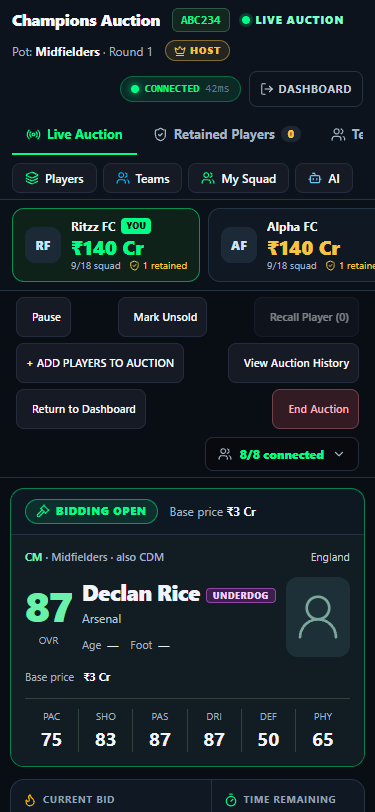
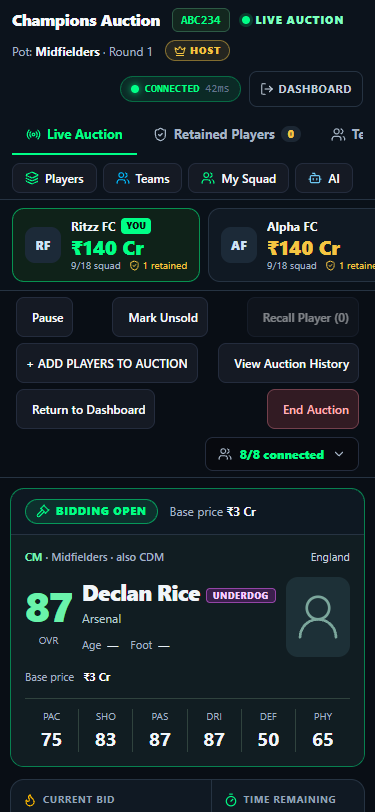
fix: keep player identity visible at short heights, denser pool column, dedupe CSS
Ran: npm run typecheck (pass), npx next build (pass), tests/auction-layout-ui (pass, now asserts photo/position/badge, >=4 pool rows, no fixed elements, all host buttons), auction-redesign-ui, connection-ui, restore-ui, ongoing-auctions-ui, skip-vote-ui, recall-ui, retained-panel-ui (all pass). Floating icon/pill in the report are Next dev indicators, not app elements.

diff --git a/frontend/src/app/auction/[roomCode]/auction.css b/frontend/src/app/auction/[roomCode]/auction.css
@@ -126,9 +126,6 @@
  .auction-subheader > div:last-child { margin-left:auto; }
  .auction-hostbar { padding:0 12px; }
  .auction-host-controls > div:first-child { display:none; }
- .auction-host-controls { gap:6px; }
- .auction-host-controls button { font-size:11px; padding:4px 8px; }
- .auction-host-controls button svg,.host-connections-label { display:none; }
  .auction-host-controls > div:last-child { width:100%; justify-content:space-between; gap:6px; }
  .auction-host-controls button { min-height:40px; padding:6px 9px; }
  .auction-grid { gap:10px; padding:10px; }
@@ -352,7 +349,7 @@
  .auction-bid-rules { display:none; }
  .auction-activity ol { max-height:120px; }
 }
-/* Short desktops (for example 1024x500): single-line chrome, no secondary text, one-row pot tabs with a hidden scrollbar. */
+/* Short desktops (for example 1024x500): compact chrome and cards. The player's photo, name, rating, position and badges stay visible. */
 @media (min-width:1024px) and (max-height:620px) {
  .auction-pot,.auction-phase + .auction-pot { display:none; }
  .auction-header { padding:4px 16px 0; }
@@ -362,55 +359,55 @@
  .auction-header .auction-mobile-tools { padding-bottom:3px; }
  .auction-header .auction-mobile-tools button { min-height:28px; padding:2px 8px; font-size:11px; }
  .auction-purse-strip ul { padding:4px 16px; gap:6px; }
- .auction-purse-badge { display:none; }
- .auction-purse-card { padding:2px 10px; border-radius:8px; }
+ .auction-purse-badge,.auction-purse-meta,.auction-purse-name em { display:none; }
+ .auction-purse-card { padding:3px 10px; border-radius:8px; }
  .auction-purse-name { font-size:11px; }
  .auction-purse-amount { font-size:13px; }
  .auction-hostbar { padding:3px 16px; }
- .auction-host-controls button,.host-connections-toggle { min-height:28px; }
+ .auction-host-controls { gap:6px; }
+ .auction-host-controls > div:first-child { display:none; }
+ .auction-host-controls button { min-height:28px; font-size:11px; padding:4px 8px; }
+ .auction-host-controls button svg,.host-connections-label { display:none; }
+ .host-connections-toggle { min-height:28px; }
  .auction-paused-notice { padding:2px 16px; font-size:11px; }
  .auction-grid { padding:4px 16px 6px; gap:8px; }
  .auction-center { gap:6px; }
  .player-stage-bar { padding:4px 10px; }
  .player-stage-chip { padding:1px 8px; font-size:10px; }
- .live-player-card { padding:6px 12px; }
- .live-player-facts,.live-player-portrait { display:none; }
- .live-player-identity { margin:0 0 4px; gap:10px; }
- .live-player-rating strong { font-size:30px; }
- .live-player-bio h2 { font-size:18px; }
- .live-player-bio p { margin-top:1px; }
- .live-player-stats { padding-top:4px; }
+ .live-player-card { padding:5px 12px 6px; }
+ .live-player-heading { font-size:10px; line-height:1.2; }
+ .live-player-facts,.live-player-price { display:none; }
+ .live-player-identity { margin:3px 0 4px; gap:10px; }
+ .live-player-portrait { width:40px; height:46px; border-radius:8px; }
+ .live-player-rating strong { font-size:28px; }
+ .live-player-bio h2 { font-size:17px; }
+ .live-player-bio p { margin-top:1px; font-size:11px; }
+ .live-player-stats { padding-top:3px; }
  .live-player-stats dt { font-size:9px; }
  .live-player-stats dd { font-size:13px; }
- .auction-current-bid,.auction-timer { padding:4px 12px; }
+ .auction-current-bid,.auction-timer { padding:3px 12px; }
  .auction-current-bid > div:first-child,.auction-timer > div:first-child { margin-bottom:0; }
  .auction-current-bid > div:nth-child(2),.auction-timer > div:nth-child(2) { margin:0; }
- .auction-current-bid > div:nth-child(2) > span,.auction-timer > div:nth-child(2) > span:first-child { font-size:22px; }
- .auction-bid-actions { padding:6px 12px 8px; }
- .auction-primary-actions button,.auction-skip-btn { min-height:34px; padding:4px 10px; }
- .auction-quick-bids { margin-top:6px; }
- .auction-quick-bids button { min-height:32px; padding:2px 10px; }
+ .auction-current-bid > div:nth-child(2) > span,.auction-timer > div:nth-child(2) > span:first-child { font-size:20px; }
+ .auction-current-bid > div:last-child,.auction-quick-heading,.auction-bid-limits,.auction-bid-rules { display:none; }
+ .auction-bid-actions { padding:5px 12px 6px; }
+ .auction-primary-actions button,.auction-skip-btn { min-height:32px; padding:4px 10px; }
+ .auction-quick-bids { margin-top:5px; }
+ .auction-quick-bids button { min-height:30px; padding:2px 10px; }
  .auction-quick-bids strong { font-size:14px; }
- .auction-player-row { min-height:44px; } .auction-purse-meta,.auction-purse-name em { display:none; }
- .auction-purse-card { padding:3px 10px; }
- .live-player-heading,.live-player-price,.auction-bid-limits,.auction-quick-heading,.auction-current-bid > div:last-child { display:none; }
- .live-player-identity { margin:6px 0; }
- .live-player-stats dd { font-size:14px; }
- .auction-pool-tabs { flex-wrap:nowrap; overflow-x:auto; scrollbar-width:none; padding:6px 0; }
+ .auction-pool-panel { padding:8px; }
+ .auction-pool-panel > div:first-child { padding-bottom:6px; }
+ .auction-pool-panel > div:first-child svg { display:none; }
+ .auction-pool-panel h3 { font-size:11px; letter-spacing:0; }
+ .auction-pool-panel > div:first-child > span { padding:2px 6px; font-size:10px; }
+ .auction-pool-panel input { min-height:30px; }
+ .auction-pool-panel button { min-height:28px; }
+ .auction-pool-tabs { flex-wrap:nowrap; overflow-x:auto; scrollbar-width:none; padding:5px 0; }
  .auction-pool-tabs::-webkit-scrollbar { display:none; }
  .auction-pool-tabs button { flex:0 0 auto; }
- .auction-pool-panel { padding:8px; }
- .auction-host-controls > div:first-child { display:none; }
- .auction-host-controls { gap:6px; }
- .auction-host-controls button { font-size:11px; padding:4px 8px; }
- .auction-host-controls button svg,.host-connections-label { display:none; }
- .auction-host-controls { gap:6px; }
- .auction-host-controls button { font-size:11px; padding:4px 8px; }
- .auction-host-controls button svg,.host-connections-label { display:none; }
- .auction-host-controls button[class*="secondary"]:nth-last-child(2) { display:none; }
+ .auction-player-row { min-height:36px; padding-top:3px; padding-bottom:3px; }
  .auction-activity { padding:8px; }
  .auction-activity ol { max-height:64px; }
-}
-@media (prefers-reduced-motion:reduce) {
+}@media (prefers-reduced-motion:reduce) {
  .auction-workspace *, .auction-workspace *::before,.auction-workspace *::after { animation:none!important; transition:none!important; }
 }

diff --git a/.agents/tasks/auction-ui-fix/review.md b/.agents/tasks/auction-ui-fix/review.md
@@ -1,0 +1,58 @@
+# Live auction room layout fix (one local commit, cf76fb6)
+
+The commit makes the live room fill the viewport, collapses the host connection table into a one-line toggle with a popover, and compacts the chrome at short heights. At 1024x500 the grid now fills the screen with no dead space and no page scroll. The current player's name and the quick-raise row are visible, and the pot tabs no longer show a scrollbar. It does not meet requirement 4 (photo and position) at the shortest height.
+
+Watch for: the player card drops the photo and position line at 1024x500 (confirmed). The left column shows about three rows there (confirmed). The CSS has duplicate rules and one selector that may hide a host button (possible).
+
+**Verdict**: NEEDS_CHANGES
+
+## High-level view
+
+The host connection panel is now a `8/8 connected` button with `aria-expanded`, collapsed by default. Its details open in an absolutely positioned popover that closes on Escape or an outside click. At 1024x500 it is about 30px tall, a large improvement over the old ~130px table.
+
+From 1024px up the workspace is `100dvh` with a `min-h-0` grid, so the three columns fill the height and scroll internally. Two height breakpoints (920px and 620px) compact the header, purse strip, host bar and bid console. The 620px tier solves the clipping by hiding content. It hides the portrait, the position/"also" line, the facts row, the base-price line and the bid limits. Requirement 4 says the player header (photo, name, OVR, position, badges) must always be visible.
+
+The pool tabs now wrap, or sit in one row with the scrollbar hidden on short screens, and the count badge no longer shrinks. The paused banner is compact. Mobile stacks player and bid first, and the host panel is collapsed.
+
+The new `auction-layout-ui.mjs` covers the 4 viewports across host paused restored, host live, guest and retention-off rooms. It asserts the name in the viewport, the quick-raise button visible, no page or column scroll, the panel under 60px with `8/8 connected`, and no horizontal overflow. This matches the requested headless test. The commit message records typecheck, build and all UI suites as passing, and I did not re-run them. `git log origin/master..HEAD` shows only this commit and nothing was pushed. The untracked `.agents/tasks/restore-auction-v3/review.*` files are unrelated.
+
+<details>
+<summary>Issues (5)</summary>
+
+1. **Player header content hidden at <=620px height** (confirmed) — at 1024x500 the screenshot shows no portrait and no position/"also CDM" line, and the facts row is hidden by `.live-player-facts,.live-player-portrait{display:none}`. Keep a compact portrait or position chip, or shrink them instead of hiding them. Assert that the position text is visible in the test.
+2. **Left pool column shows about 3 rows at 1024x500** (confirmed) — the filter box and `auction-player-row{min-height:44px}` leave little room, and the requirement asks to show more rows. Tighten the filter and row height at short heights. The "POT & PLAYE..." title is also truncated, so shorten it or drop the icon.
+3. **Floating elements not addressed** (likely) — requirement 7 (top-right icon button, bottom-center pill) has no CSS change and no test. The only fixed in-room element found is `PoolUpdateNotice` at bottom-right. Confirm which elements overlap content and add an overlap check.
+4. **A host button may be hidden at short heights** (possible) — `.auction-host-controls button[class*="secondary"]:nth-last-child(2){display:none}` can remove a control and break the keep-all-functionality rule. Verify which button it hides, or move it to an overflow menu.
+5. **Duplicated and leftover CSS** (confirmed) — the 620px block repeats the `auction-host-controls` and `live-player-identity` rules several times, and a stray block was added to the older mobile media query. Dedupe. Also fix the odd `host` expression in the test and the missing trailing newline in `HostConnectionPanel.tsx`.
+
+</details>
+
+<details>
+<summary>Details</summary>
+
+### Short-height compaction hides content (1024x500)
+The test only asserts the name, the quick-raise button and the page and column fit. It does not assert photo, position or badges, so hiding them passes. The 1280x720 and 1440x900 screenshots are fine. Only the sub-620px tier needs rework.
+
+### Connection popover
+Collapsed by default, with `aria-expanded` and `aria-controls`, keyboard operable (tested with Enter), and the label hides on short screens while the aria-label keeps the full text. The z-30 popover covers part of the controls while open, and Escape closes it. The `connection-ui` test was updated for this.
+
+### Not covered
+No test checks focus rings or reduced motion (the CSS adds a `prefers-reduced-motion` rule). The `PoolUpdateNotice` overlap is untested.
+
+</details>
+
+<details>
+<summary>File map</summary>
+
+- `auction.css`: viewport-fill grid, height tiers, pool tabs, compact banner
+- `page.tsx`: compact paused-notice class
+- `HostConnectionPanel.tsx`: collapsible summary and popover
+- `HostAuctionControls.tsx`: `host-return-btn` class
+- `PlayerPoolSidebar.tsx`: tab container class and title attribute
+- `tests/auction-layout-ui.mjs`: new layout test
+- `tests/connection-ui.mjs`: updated for the collapsed panel
+- `.agents/tasks/auction-ui-fix/*.png`: before/after screenshots
+
+Full diff: `git diff 07725d2..HEAD`
+
+</details>
